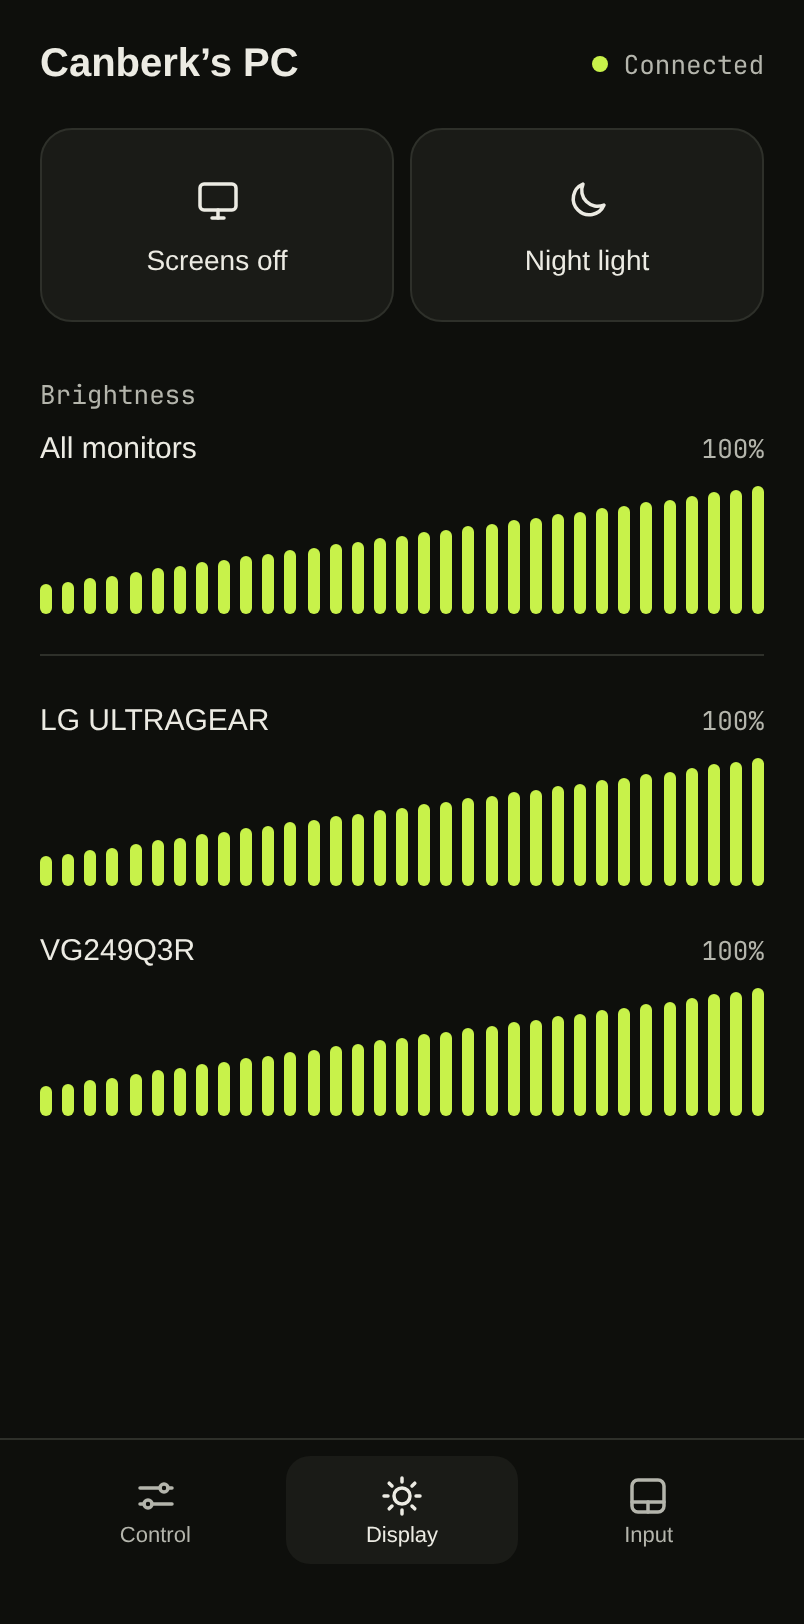
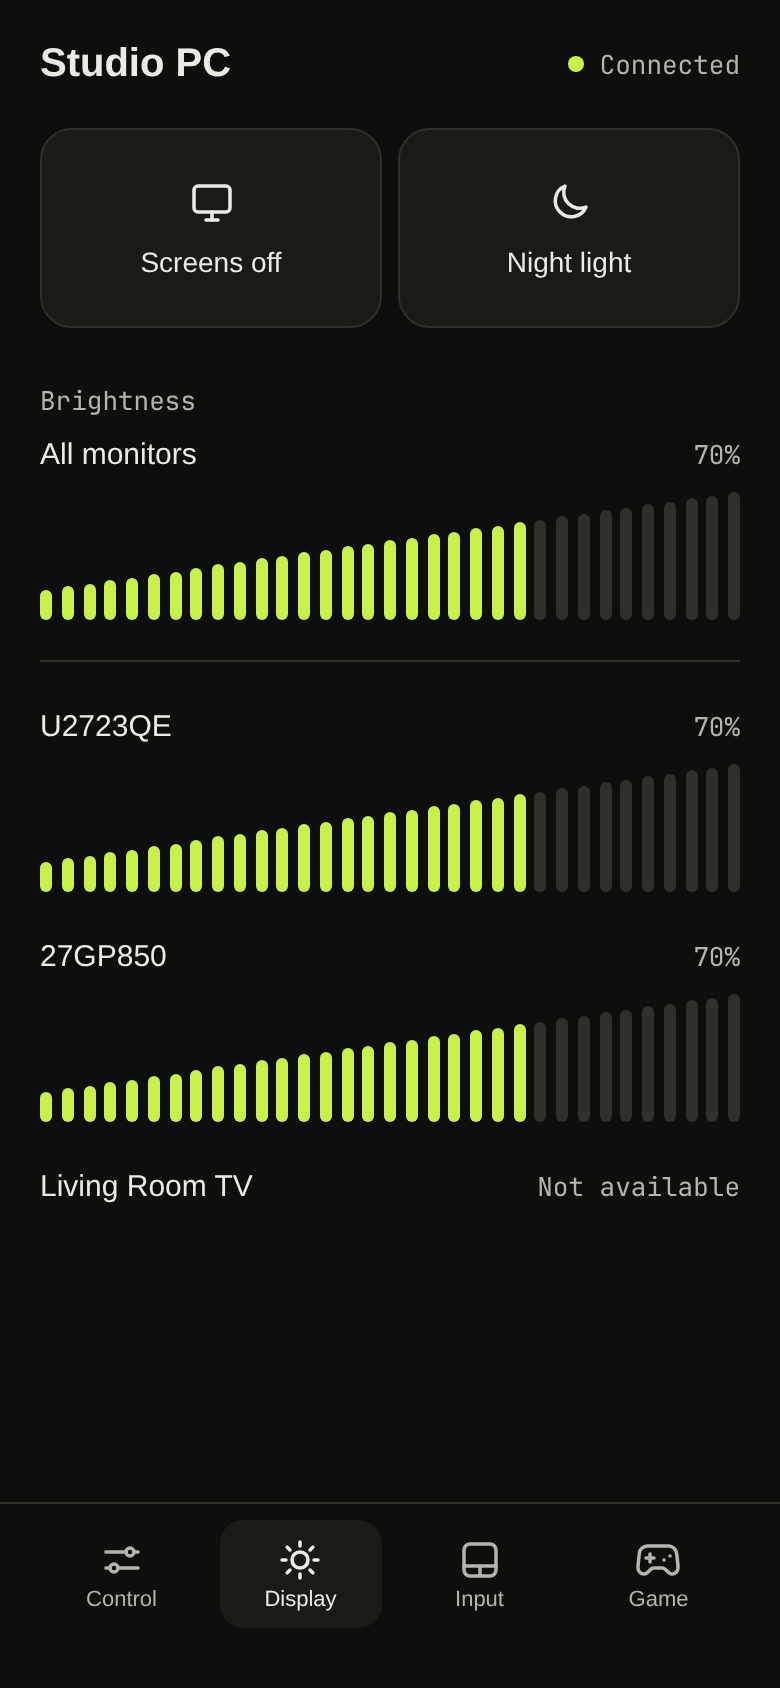
Rewrite the README around clips and screenshots of each feature
Every tab, the sideways keyboard, the controller, layout editing and
parties now have a recorded clip or screenshot in docs/, captured from
the real web app in a phone-sized browser with a stand-in PC.

diff --git a/README.md b/README.md
@@ -1,31 +1,62 @@
+<div align="center">
+
 # Omarchy Remote
 
-Control your [Omarchy](https://omarchy.org) PC from your phone. Omarchy Remote is a small Go server with a web app that you add to your iPhone (or Android) Home Screen, where it opens like a regular app.
+**Your phone becomes a remote, a trackpad, a keyboard and a game controller for your [Omarchy](https://omarchy.org) PC.**
 
-<p>
-  <img src="docs/display.png" width="260" alt="Display tab with Screens off, Night light and per-monitor brightness">
-  <img src="docs/input.png" width="260" alt="Input tab with the trackpad">
-</p>
+One small Go binary on the PC, one web app on your Home Screen. No app store, no root, no setup in your games.
 
-## Features
+<img src="docs/tour.gif" width="300" alt="A tour of the app: dragging the volume, dimming all monitors, turning on the night light, using the trackpad and opening the Game tab">
 
-- **Control:** volume slider and mute, audio output picker, Now Playing with cover art and media keys, plus Lock, Reboot and Shut Down.
-- **Display:** turn the screens off, toggle the night light, and set the brightness of all monitors or of each one.
-- **Input:** hold the phone upright for a trackpad (tap to click, two-finger scroll, a scroll strip, left and right click) or turn it sideways for a full keyboard. You can also type text into the focused window and send or fetch the clipboard.
-- **Game:** turn the phone sideways for a touch controller that the PC sees as an Xbox 360 controller, so Steam and most games work without setup. You can move, resize and hide every control.
-- **Party:** friends on your Wi-Fi join as players 2 to 4 with a 4-letter code or a QR code, and get a controller and nothing else.
-- **Themes:** follows your Omarchy theme, or use your own CSS. Changes show up on the phone without a restart.
-- **One passcode** that is created on first run, with a one-minute lockout after five wrong tries.
-- **Single binary** with the web app embedded. It needs no root access: keyboard and mouse input go through `/dev/uinput`, which systemd gives to the user signed in at the computer.
+</div>
 
-## Requirements
+<table>
+  <tr>
+    <td align="center"><img src="docs/control.png" width="180" alt="Control tab"><br><sub><b>Control</b></sub></td>
+    <td align="center"><img src="docs/display.png" width="180" alt="Display tab"><br><sub><b>Display</b></sub></td>
+    <td align="center"><img src="docs/input.png" width="180" alt="Input tab"><br><sub><b>Input</b></sub></td>
+    <td align="center"><img src="docs/game.png" width="180" alt="Game tab"><br><sub><b>Game</b></sub></td>
+  </tr>
+</table>
+
+## Contents
+
+- [What it does](#what-it-does)
+- [Get started](#get-started)
+- [A tour of the app](#a-tour-of-the-app)
+  - [Control](#control): volume, audio output, now playing, power
+  - [Display](#display): screens off, night light, brightness
+  - [Input](#input): trackpad, keyboard, typing, clipboard
+  - [Game](#game): a touch Xbox controller you can rearrange
+  - [Party](#party): friends join as players 2 to 4
+- [Security](#security)
+- [Configuration](#configuration)
+- [Themes](#themes)
+- [More](#more): uninstall, the `pc-remote` helper, development
+
+## What it does
+
+| | |
+| --- | --- |
+| 🔊 **Control** | Volume and mute, pick the audio output, Now Playing with cover art and media keys, Lock, Reboot and Shut Down. |
+| 🖥 **Display** | Turn the screens off, toggle the night light, set the brightness of all monitors at once or of each one. |
+| 🖱 **Input** | Hold the phone upright for a trackpad, turn it sideways for a full keyboard. Type text into the PC and pass the clipboard both ways. |
+| 🎮 **Game** | Turn sideways for a touch controller the PC sees as an Xbox 360 pad. Move, resize and hide every control. |
+| 🎉 **Party** | Friends on your Wi-Fi scan a QR code and join as players 2 to 4, with a controller and nothing else. |
+| 🎨 **Themes** | Follows your Omarchy theme live, or bring your own CSS. |
+| 🔒 **Access** | One passcode, created on first run, with a one-minute lockout after five wrong tries. Works over Tailscale. |
+| 📦 **One binary** | The web app is embedded. No root: input goes through `/dev/uinput`, which systemd gives to the user at the computer. |
+
+## Get started
+
+**You need**
 
 - Omarchy (Hyprland, PipeWire)
 - Go 1.27 or newer to build it (`mise use -g go@latest` works)
 - `playerctl` for the media controls. Omarchy doesn't include it: `sudo pacman -S playerctl`
 - An iPhone on iOS 16.2 or newer, or a recent Android browser
 
-## Install
+**Install on the PC**
 
 ```bash
 git clone https://github.com/canberkbekir/omarchy-remote.git
@@ -33,15 +64,133 @@ cd omarchy-remote
 ./install.sh
 ```
 
-The script builds the server into `~/.local/bin`, installs the `pc-remote` helper next to it, and starts the `pc-remote-web` systemd user service. It prints your passcode at the end. You can read the passcode again at any time from `~/.config/pc-remote/passcode`.
+The script builds the server into `~/.local/bin`, installs the `pc-remote` helper next to it, and starts the `pc-remote-web` systemd user service. It prints your passcode at the end. You can read it again at any time from `~/.config/pc-remote/passcode`.
 
-Then on your phone:
+**Add it to your phone**
 
-1. Open `http://<your-pc-ip>:8377` in Safari (or `https://` with Tailscale, as described below).
+1. Open `http://<your-pc-ip>:8377` in Safari (or `https://` with [Tailscale](#security)).
 2. Tap **Share**, then **Add to Home Screen**.
 3. Open the new icon and enter the passcode.
 
 If you use a firewall, allow the port from your home network only, for example `sudo ufw allow from 192.168.0.0/24 to any port 8377 proto tcp`.
+
+## A tour of the app
+
+### Control
+
+<table>
+  <tr>
+    <td width="340"><img src="docs/control.gif" width="320" alt="Dragging the volume, muting, skipping a track and switching the output to headphones"></td>
+    <td>
+
+- **Volume:** drag anywhere on the meter, or step it with **−** and **+**. The mute button sits between them.
+- **Audio output:** tap the output row to switch between speakers, headphones, HDMI and any other sound device.
+- **Now Playing:** title, artist, player, cover art and progress for whatever is playing (Spotify, a browser, mpv, …), with previous, play/pause and next.
+- **Power:** **Lock** acts right away. **Reboot** and **Shut Down** ask first.
+
+</td>
+  </tr>
+</table>
+
+### Display
+
+<table>
+  <tr>
+    <td width="340"><img src="docs/display.gif" width="320" alt="Turning on the night light, dimming all monitors, brightening one monitor and turning the screens off and on"></td>
+    <td>
+
+- **Screens off** turns every monitor off without locking. Tap again to bring them back.
+- **Night light** toggles Omarchy's night light.
+- **Brightness** has a slider per monitor, plus **All monitors** when you have more than one. When they differ, the shared slider says *Mixed*.
+- Brightness goes over DDC/CI, so monitors that don't support it (like most TVs) say *Not available*.
+
+</td>
+  </tr>
+</table>
+
+### Input
+
+<table>
+  <tr>
+    <td width="340"><img src="docs/trackpad.gif" width="320" alt="Moving the pointer, tapping to click, two-finger scrolling, using the scroll strip and typing text into the PC"></td>
+    <td>
+
+**Hold the phone upright for a trackpad.**
+
+- Drag to move the pointer. Faster swipes go further.
+- Tap to click, tap with two fingers to right click.
+- Scroll with two fingers, or with the strip on the right.
+- **Left click** and **Right click** stay pressed while you hold them, so you can drag windows and select text.
+
+**Type text** sends a whole sentence (emoji included) to the window that's active on the PC, with or without Enter.
+
+**Clipboard** shows what's copied on the PC so you can copy it to the phone, and sends text the other way.
+
+</td>
+  </tr>
+</table>
+
+<p align="center"><img src="docs/clipboard.png" width="240" alt="The clipboard sheet"></p>
+
+**Turn the phone sideways for a full keyboard.**
+
+<p align="center"><img src="docs/keyboard.gif" width="640" alt="Typing, latching Ctrl and Super, holding Shift and switching to the Fn layer"></p>
+
+- Every key is a real key on a virtual keyboard, so shortcuts work everywhere, including Hyprland's.
+- **Tap a modifier** (Ctrl, Shift, Alt, Super) and it stays down for the next key: tap **Ctrl**, then **c**. Hold it instead to use it like a normal key. The bar at the top shows the combination.
+- **Hold Shift** and the keys show what they'll type.
+- **Fn** swaps in F1 to F12, Home, End, Page Up and Page Down.
+- Several keys can be held at once.
+
+### Game
+
+<table>
+  <tr>
+    <td width="660"><img src="docs/gamepad.gif" width="640" alt="Running in a circle with the left stick while tapping A, B and Y, aiming with the right stick while holding RT, and sliding around the D-pad"></td>
+  </tr>
+</table>
+
+Open the **Game** tab and turn the phone sideways. The first time, the PC gets a virtual Xbox 360 controller named "PC Remote Gamepad". Steam and games that use SDL pick it up as a standard Xbox 360 controller, with no setup.
+
+- **Sticks float:** touch anywhere in a stick's area and the stick starts under your thumb.
+- **L3 and R3:** tap a stick, then touch it again and hold. The stick stays clicked while it moves, so you can sprint or melee without letting go. The L3 and R3 buttons work too.
+- **D-pad:** slide between directions. The corners press two at once.
+- **Every finger counts:** move, aim, hold a trigger and press a face button at the same time.
+- **Rotation lock on?** Tap **Open controller**. It opens sideways anyway, with a close button.
+- **Delay** on the Game tab is the measured round trip to the PC. Home Wi-Fi is usually a few milliseconds. Going through Tailscale adds a little.
+
+#### Make the layout yours
+
+<table>
+  <tr>
+    <td width="660"><img src="docs/layout.gif" width="640" alt="Editing the layout: moving the D-pad, making A bigger, hiding L3 and R3, and saving"></td>
+  </tr>
+</table>
+
+Tap the pencil on the controller. **Drag** controls to move them, **tap** one to resize it with the slider or **Hide** it, and tap **Done** to save. **Reset** brings back the default layout.
+
+Layouts are stored on the PC in `~/.config/pc-remote/gamepad.json` as shares of the screen, so a layout works on any phone and survives reinstalling the Home Screen app.
+
+Your app is player 1. If another phone signs in to the app and opens the Game tab, it takes over player 1. Friends join as other players through a [party](#party). iPhones can't vibrate from a web app, so there's no rumble or button feedback on iPhone. Android vibrates briefly on each press.
+
+### Party
+
+<table>
+  <tr>
+    <td width="340" align="center"><img src="docs/party.gif" width="320" alt="Starting a party: the code appears, two friends join and the QR code opens"><br><sub>On your phone</sub></td>
+    <td width="340" align="center"><img src="docs/join.gif" width="320" alt="A friend types the code and their name and becomes player 2"><br><sub>On your friend's phone</sub></td>
+  </tr>
+</table>
+
+On the Game tab, tap **Invite players**. You get a 4-letter code (no numbers, and no I or O, which are easy to mishear), the link, **Copy**, **Share** and a full-screen **QR code**. Friends on your Wi-Fi scan the QR code, or open the link and type the code, then enter their name. Each friend gets their own Xbox controller on the PC.
+
+- **Guests only get a controller.** They join on a separate port (8378), which serves only the join page and the guest controller, accepts only home-network addresses, and is open only while a party runs. Your passcode never leaves your phone.
+- **The player list** shows each player and their delay, with a **Remove** button. **New code** changes the code without kicking anyone. **End party** disconnects everyone, unplugs their controllers and closes the guest port.
+- **Reconnecting** (phone locked, Wi-Fi blip) keeps the same player. The phone remembers its place until the party ends.
+- **Guessing codes** is limited: 5 wrong tries lock a device out for a minute, and 20 wrong tries from all devices together pause joining for a minute.
+- Guests can't edit the layout. They get the default one.
+
+If you use a firewall, allow the guest port from your home network: `sudo ufw allow from 192.168.0.0/24 to any port 8378 proto tcp`. Set `guest_port = 0` in `config.toml` to turn parties off.
 
 ## Security
 
@@ -54,7 +203,7 @@ This app can type on your keyboard and shut down your computer, so treat access 
   sudo tailscale serve --bg 8377
   ```
 
-  Then set `access = "tailscale"` in the config file (below) and restart the service. The app then listens only on this PC, so Tailscale is the only way in. Open `https://<your-pc>.<your-tailnet>.ts.net` on your phone.
+  Then set `access = "tailscale"` in the [config file](#configuration) and restart the service. The app then listens only on this PC, so Tailscale is the only way in. Open `https://<your-pc>.<your-tailnet>.ts.net` on your phone.
 
 - With `access = "lan"`, the app answers only devices with home-network addresses (and Tailscale addresses), even though it listens on every network interface.
 - Starting a party opens the guest port (8378) to your home network until the party ends, even with `access = "tailscale"`. It serves only the join page and the guest controller. Set `guest_port = 0` to turn parties off.
@@ -74,7 +223,7 @@ guest_port = 8378      # where friends join a party; 0 turns parties off
 | `access` | Listens on | Use it when |
 | --- | --- | --- |
 | `lan` | every network interface | you open `http://<your-pc-ip>:8377` on home Wi-Fi |
-| `tailscale` | this PC only (`127.0.0.1`) | you use `tailscale serve`, as described in Security |
+| `tailscale` | this PC only (`127.0.0.1`) | you use `tailscale serve`, as described in [Security](#security) |
 
 Restart the service after changing the config: `systemctl --user restart pc-remote-web`. If a setting is misspelled, the service stops and `journalctl --user -u pc-remote-web` shows which one.
 
@@ -84,7 +233,17 @@ The passcode is kept separately in `~/.config/pc-remote/passcode`, so you can sh
 
 ## Themes
 
-<img src="docs/theme-omarchy.png" width="260" align="right" alt="The app in the Omarchy theme, using Tokyo Night colors">
+<table>
+  <tr>
+    <td align="center"><img src="docs/control.png" width="220" alt="The default theme"><br><sub><code>default</code></sub></td>
+    <td align="center"><img src="docs/theme-omarchy.png" width="220" alt="The Omarchy theme, here with Tokyo Night colors"><br><sub><code>omarchy</code> (with Tokyo Night)</sub></td>
+  </tr>
+</table>
+
+Built-in themes:
+
+- `default`: dark with a lime accent.
+- `omarchy`: follows your current Omarchy theme. Change the theme on the PC and the phone follows within a few seconds.
 
 The app loads three stylesheets in order, and each one can override the one before:
 
@@ -92,18 +251,12 @@ The app loads three stylesheets in order, and each one can override the one befo
 2. **The theme** chosen with `theme = "..."`: colors and fonts.
 3. **`~/.config/pc-remote/user.css`**: anything you like, up to a full restyle.
 
-Built-in themes:
-
-- `default`: dark with a lime accent.
-- `omarchy`: follows your current Omarchy theme. Change the theme on the PC and the phone follows within a few seconds.
-
 **To make your own theme**, copy [`themes/default.css`](themes/default.css) to `~/.config/pc-remote/themes/<name>.css`, change the colors, and set `theme = "<name>"`. A file in that folder with the same name as a built-in theme replaces it.
 
 Edits to theme files and `user.css` reach an open app within a few seconds, with no restart. Only changing `theme` in `config.toml` needs a restart.
 
-<br clear="right">
-
-### Variables
+<details>
+<summary><b>Theme variables</b></summary>
 
 | Variable | Used for |
 | --- | --- |
@@ -121,7 +274,10 @@ A few shades are mixed from these automatically: `--pad`, `--pressed`, `--edge`,
 
 Every color in Omarchy's `colors.toml` is also available as `--omarchy-<name>`, with underscores turned into dashes (for example `--omarchy-bright-blue`), so your own themes can use Omarchy colors too.
 
-### Stable names for `user.css`
+</details>
+
+<details>
+<summary><b>Stable names for <code>user.css</code></b></summary>
 
 These IDs and classes won't be renamed without a note in the release, so `user.css` can rely on them:
 
@@ -138,33 +294,13 @@ These IDs and classes won't be renamed without a note in the release, so `user.c
 
 Anything else in the page may change between versions.
 
-## Gamepad
+</details>
 
-Open the **Game** tab and turn the phone sideways. The first time, the PC gets a virtual Xbox 360 controller named "PC Remote Gamepad". Steam and games that use SDL see it as a standard Xbox 360 controller.
+New themes are welcome as pull requests: add `themes/<name>.css` with a screenshot.
 
-- **Sticks float:** touch anywhere in a stick's area and the stick starts under your thumb.
-- **L3 and R3:** tap a stick, then touch it again and hold. The stick stays clicked while it moves, so you can sprint or melee without letting go. The L3 and R3 buttons work too.
-- **D-pad:** slide between directions; the corners press two at once.
-- **Rotation lock on?** Tap **Open controller**. It opens sideways anyway, with a close button.
-- **Delay** on the Game tab is the measured round trip to the PC. Home Wi-Fi is usually a few milliseconds; going through Tailscale adds a little.
+## More
 
-To change the layout, tap the pencil button on the controller. Drag controls to move them, tap one to resize or hide it, and tap **Done** to save. Layouts are stored on the PC in `~/.config/pc-remote/gamepad.json`, as shares of the screen, so a layout works on any phone and survives reinstalling the Home Screen app.
-
-Your app is player 1. If another phone signs in to the app and opens the Game tab, it takes over player 1; friends join as other players through a party (below). iPhones can't vibrate from a web app, so there's no rumble or button feedback on iPhone; Android vibrates briefly on each press.
-
-## Party: friends as players 2 to 4
-
-On the Game tab, tap **Invite players**. You get a 4-letter code (no numbers, and no I or O, which are easy to mishear), the link, **Copy**, **Share** and a full-screen **QR code**. Friends on your Wi-Fi scan the QR code, or open the link and type the code, then enter their name. Each friend gets their own Xbox controller on the PC.
-
-- **Guests only get a controller.** They join on a separate port (8378), which serves only the join page and the guest controller, accepts only home-network addresses, and is open only while a party runs. Your passcode never leaves your phone.
-- **The list** on your phone shows each player, their delay, and a **Remove** button. **New code** changes the code without kicking anyone. **End party** disconnects everyone, unplugs their controllers and closes the guest port.
-- **Reconnecting** (phone locked, Wi-Fi blip) keeps the same player; the phone remembers its place until the party ends.
-- **Guessing codes** is limited: 5 wrong tries lock a device out for a minute, and 20 wrong tries from all devices together pause joining for a minute.
-- Guests can't edit the layout; they get the default one.
-
-If you use a firewall, allow the guest port from your home network: `sudo ufw allow from 192.168.0.0/24 to any port 8378 proto tcp`. Set `guest_port = 0` in `config.toml` to turn parties off.
-
-## Uninstall
+### Uninstall
 
 ```bash
 systemctl --user disable --now pc-remote-web
@@ -172,11 +308,11 @@ rm ~/.config/systemd/user/pc-remote-web.service ~/.local/bin/pc-remote-web ~/.lo
 rm -r ~/.config/pc-remote   # your passcode, config, themes and gamepad layout
 ```
 
-## The `pc-remote` helper
+### The `pc-remote` helper
 
 `scripts/pc-remote` runs a command inside your running Hyprland session, for example `pc-remote omarchy-system-lock`. The server uses it for session commands. It also works over SSH, so you can use it from an iPhone Shortcuts **Run Script Over SSH** action as well.
 
-## Development
+### Development
 
 ```bash
 go test ./...
@@ -185,7 +321,7 @@ go build -o pc-remote-web . && ./pc-remote-web
 
 The web app is `web/index.html`, `web/app.js` and `web/base.css`, and the guest page is `web/join.html` with `web/join.js`. They are embedded into the binary at build time, along with the built-in themes in `themes/`. Keep scripts in files: the Content-Security-Policy blocks inline scripts and `style=""` attributes.
 
-New themes are welcome as pull requests: add `themes/<name>.css` with a screenshot.
+The screenshots and clips in `docs/` were recorded from the real web app in a phone-sized browser, with a stand-in PC answering its requests.
 
 ## License
 
